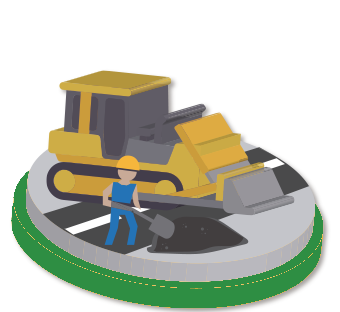
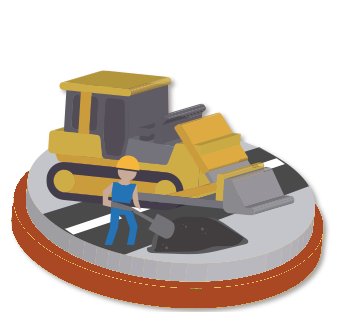
correcciones

Changed region(s): [[0.0294, 0.5481, 0.9706, 1.0]]

diff --git a/views/municipios.html b/views/municipios.html
@@ -1,18 +1,18 @@
-<div class="row">
+<div class="row" style="margin-top: 80px;">
     <!--banner primero-->
     <div class="container-fluid">
         <div id="carousel-banner-edu" class="carousel slide" data-ride="carousel">
             <!-- Indicators -->
-            <ol class="carousel-indicators">
+           <!-- <ol class="carousel-indicators">
                 <li data-target="#carousel-primero" data-slide-to="0" class="active"></li>
                 <li data-target="#carousel-primero" data-slide-to="1"></li>
-            </ol>
+            </ol>-->
 
             <!-- Wrapper for slides -->
             <div class="carousel-inner" role="listbox">
 
                 <div class="item active">
-                    <img src="img/banner_admon-gobierno.png" class="img-responsive"/>
+                    <img src="img/bannermuni.png" class="img-responsive"/>
                 </div>
 
             </div>

diff --git a/css/style.css b/css/style.css
@@ -342,7 +342,7 @@ Rubros
 }
 /*municipios*/
 #divmunicipios{
-    background-color: #2e8e43;
+    background-color: #a94822;
 }
 #divmunicipios:hover{
     display: none;
@@ -354,11 +354,11 @@ Rubros
     margin-left: 52px;
 }
 #backmunicipios{
-    border: 1px solid #2e8e43;
-    border-left: solid #2e8e43 38px;
+    border: 1px solid #a94822;
+    border-left: solid #a94822 38px;
 }
 #backmunicipios > div:first-child {
-    background: #2e8e43;
+    background: #a94822;
 }
 /*administracion de gobierno*/
 #divadmon{
